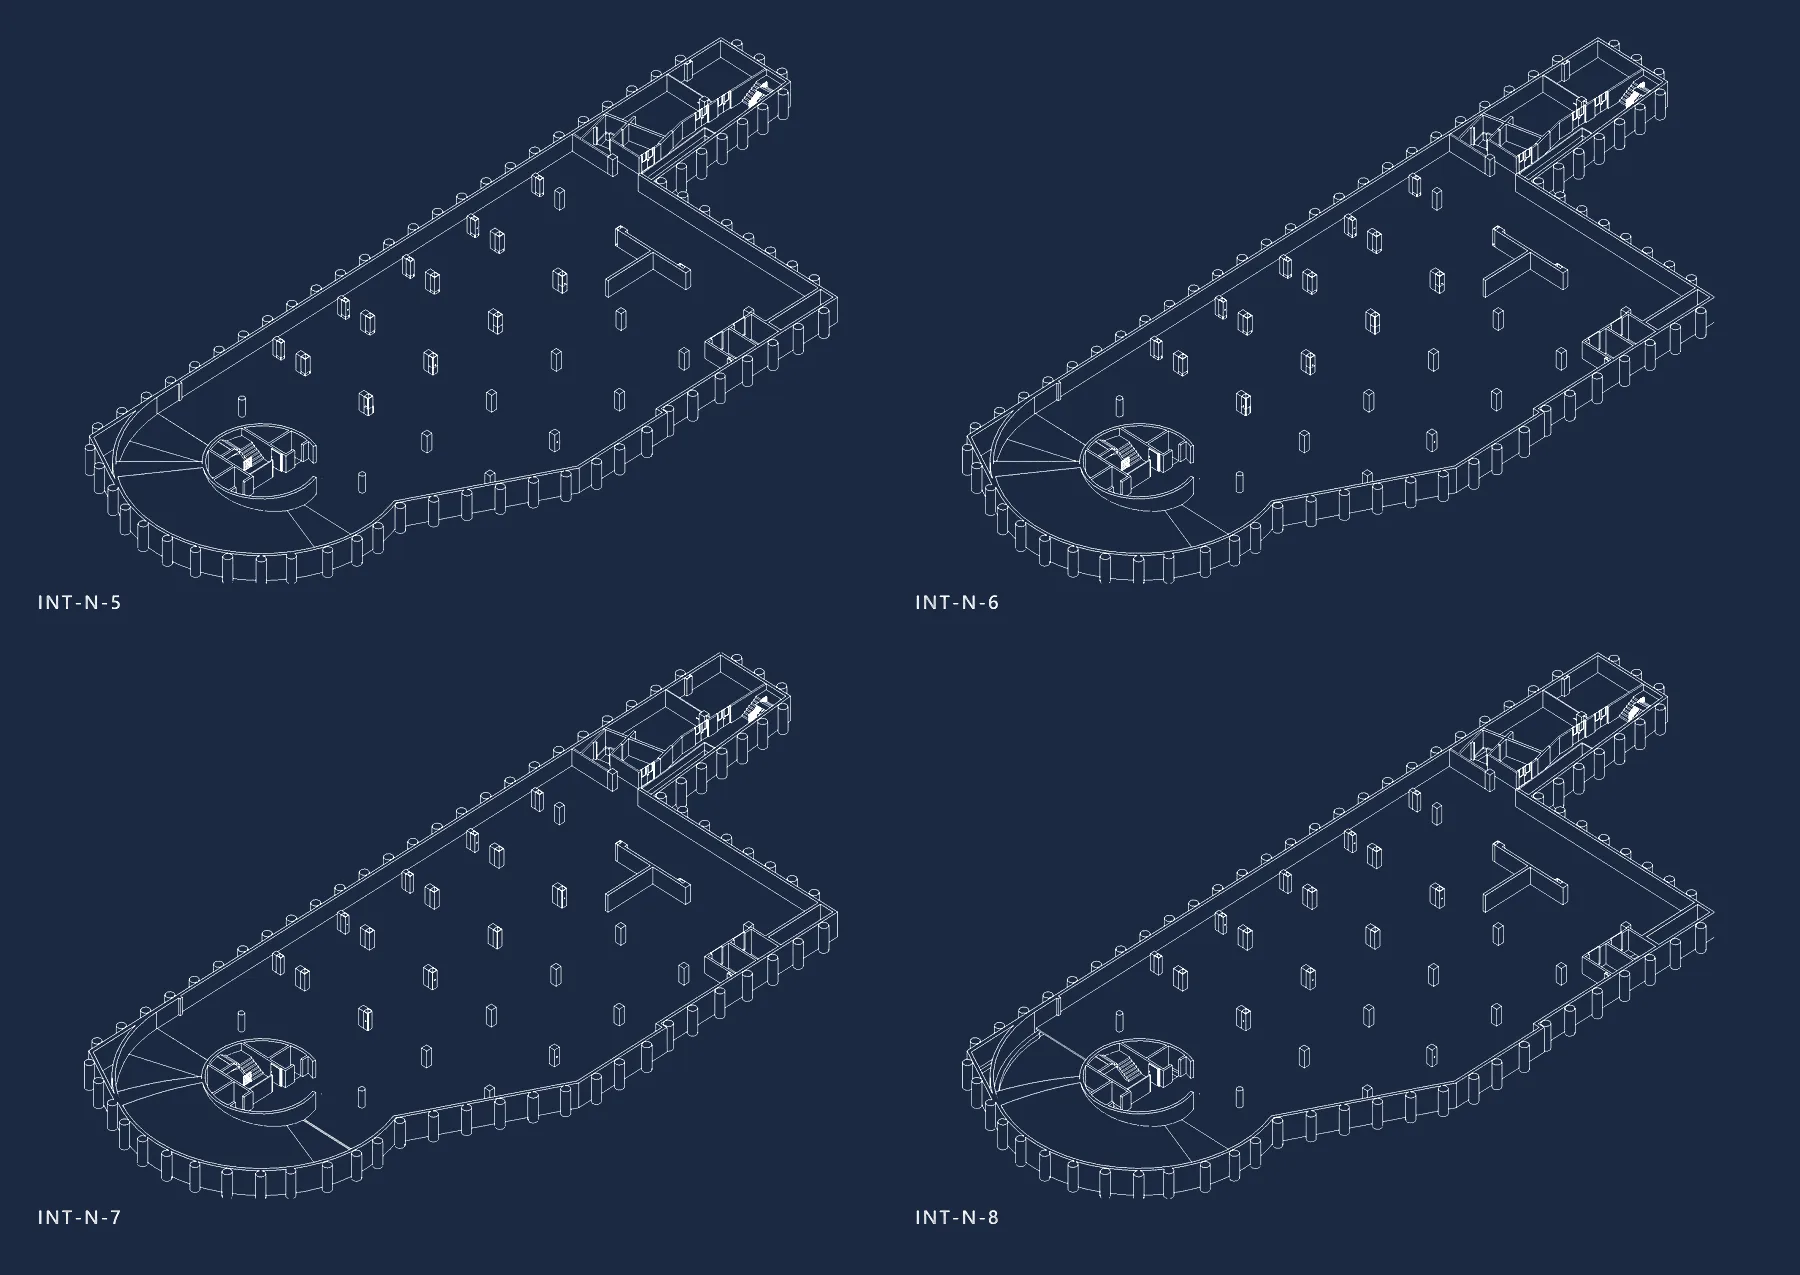
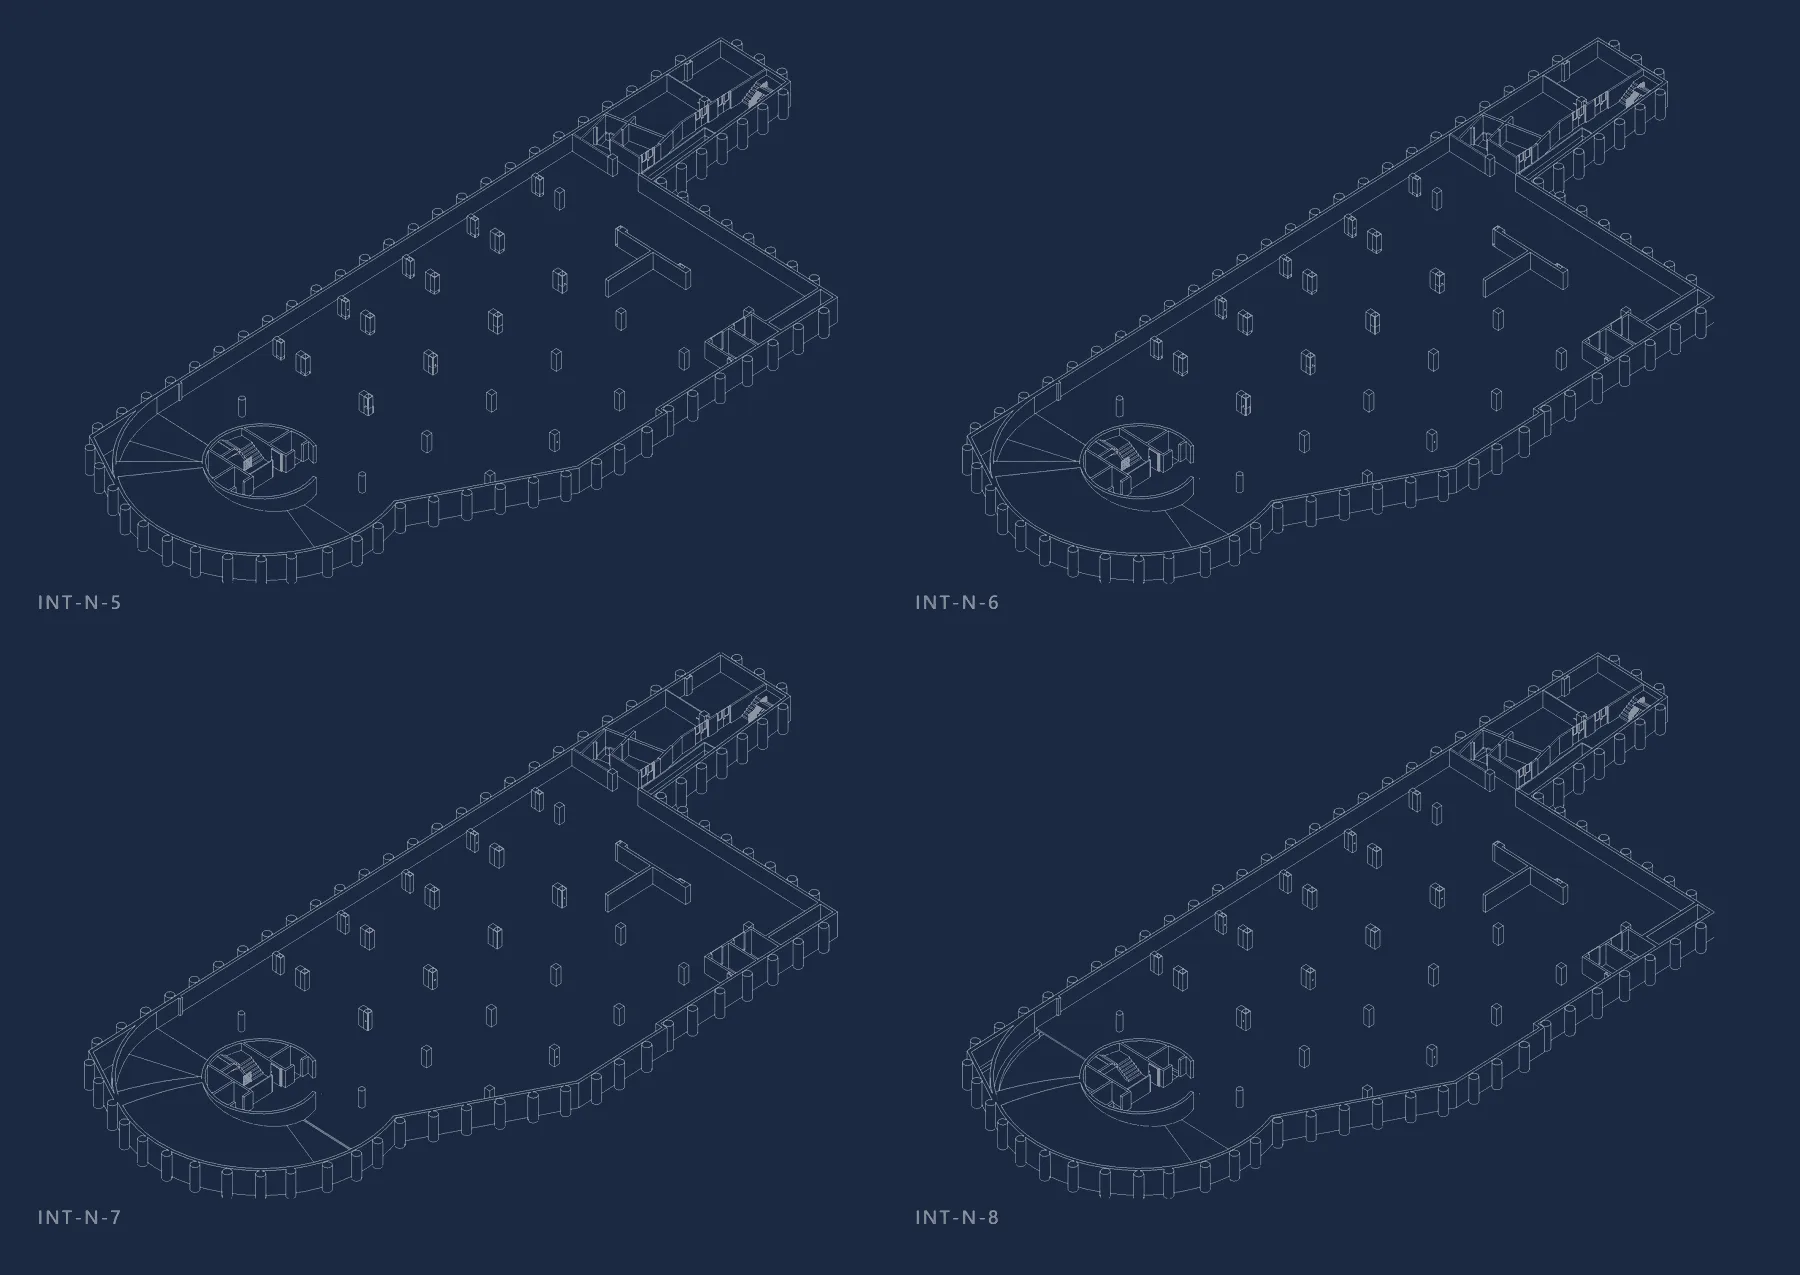
INO4: arquitectura en gris azulado más suave
Nueva opción intensidad en fondo-azul.js (tope del blanco de la línea).
clinica se reprocesa con intensidad 0,5, en el tono de la arquitectura de
SCFA. IMG_V sube a 2026-11-18c para forzar la recarga.

Claude-Session: https://claude.ai/code/session_01Dnq6nJeuR1o8e4q3ZrPM81

diff --git a/tools/brandkit/fondo-azul.js b/tools/brandkit/fondo-azul.js
@@ -8,6 +8,9 @@
 // proyecta sobre el plano horizontal, pasan a fondo azul en vez de verse como una mancha.
 // Usar solo en vistas de arquitectura; en las de especialidad la arquitectura tenue es gris claro.
 //
+// --intensidad=<0..1> (o `{ intensidad }`): tope del blanco de la línea neutra. 1 = blanco pleno;
+// 0,5 deja la arquitectura en un gris azulado similar al que tiene en las vistas de SCFA.
+//
 // También se exporta `aAzul(buffer)` para que laminas.js lo aplique al componer.
 // El CLI omite las imágenes cuya esquina ya no es blanca, para no invertirlas dos veces.
 const fs = require("fs");
@@ -23,7 +26,7 @@ const curva = (v) => Math.pow(Math.min(1, v * 2.2), 0.85);
 // Luminancia desde la que un gris se considera sombra (~217/255; las sombras de INO4 rondan 229)
 const UMBRAL_SOMBRA = 0.85;
 
-async function aAzul(input, { sinSombras = false } = {}) {
+async function aAzul(input, { sinSombras = false, intensidad = 1 } = {}) {
   const { data, info } = await sharp(input).flatten({ background: "#ffffff" })
     .removeAlpha().raw().toBuffer({ resolveWithObject: true });
   const out = Buffer.alloc(data.length);
@@ -36,7 +39,7 @@ async function aAzul(input, { sinSombras = false } = {}) {
 
     // parte neutra: blanco → azul, gris/negro → blanco
     const v = sinSombras ? Math.max(0, (UMBRAL_SOMBRA - lum) / UMBRAL_SOMBRA) : 1 - lum;
-    const t = curva(v);
+    const t = curva(v) * intensidad;
     // peso del color de especialidad: 0 en grises, 1 en colores francos
     const c = Math.min(1, Math.max(0, (croma - 12) / 50));
 
@@ -54,7 +57,9 @@ if (require.main === module) {
   (async () => {
     const args = process.argv.slice(2);
     const sinSombras = args.includes("--sin-sombras");
-    for (const archivo of args.filter((a) => a !== "--sin-sombras")) {
+    const optInt = args.find((a) => a.startsWith("--intensidad="));
+    const intensidad = optInt ? Number(optInt.split("=")[1]) : 1;
+    for (const archivo of args.filter((a) => !a.startsWith("--"))) {
       const { data } = await sharp(archivo).extract({ left: 0, top: 0, width: 1, height: 1 })
         .removeAlpha().raw().toBuffer({ resolveWithObject: true });
       if (data[0] < 240 || data[1] < 240 || data[2] < 240) {
@@ -63,7 +68,7 @@ if (require.main === module) {
       }
       const meta = await sharp(archivo).metadata();
       const calidad = meta.width <= 900 ? 80 : 82;
-      const buf = await (await aAzul(archivo, { sinSombras })).webp({ quality: calidad }).toBuffer();
+      const buf = await (await aAzul(archivo, { sinSombras, intensidad })).webp({ quality: calidad }).toBuffer();
       fs.writeFileSync(archivo, buf);
       console.log(`azul        ${archivo}`);
     }

diff --git a/tools/brandkit/laminas.js b/tools/brandkit/laminas.js
@@ -48,7 +48,7 @@ const etiqueta = (x, y, texto) =>
   // portada: una sola vista, a resolución completa
   if (CFG.portada) {
     const buf = await vista(CFG.portada);
-    const azul = await (await aAzul(buf, { sinSombras: CFG.sinSombras })).png().toBuffer();
+    const azul = await (await aAzul(buf, { sinSombras: CFG.sinSombras, intensidad: CFG.intensidad ?? 1 })).png().toBuffer();
     await sharp(azul).resize({ width: 1800, withoutEnlargement: true }).webp({ quality: 82 })
       .toFile(path.join(OUT_IMG, "portada.webp"));
     console.log(`portada     ${CFG.portada}`);
@@ -78,7 +78,7 @@ const etiqueta = (x, y, texto) =>
 
     const base = `lam-${String(i + 1).padStart(2, "0")}`;
     const hoja = await sharp({ create: { width: W, height: H, channels: 3, background: "#ffffff" } })
-      .composite(capas).png().toBuffer().then(async (b) => (await aAzul(b, { sinSombras: CFG.sinSombras })).png().toBuffer());
+      .composite(capas).png().toBuffer().then(async (b) => (await aAzul(b, { sinSombras: CFG.sinSombras, intensidad: CFG.intensidad ?? 1 })).png().toBuffer());
 
     await sharp(hoja).resize({ width: 1800 }).webp({ quality: 82 }).toFile(path.join(OUT_IMG, `${base}.webp`));
     await sharp(hoja).resize({ width: 900 }).webp({ quality: 80 }).toFile(path.join(OUT_IMG, `${base}-thumb.webp`));

diff --git a/src/data/proyectos.js b/src/data/proyectos.js
@@ -4,7 +4,7 @@ import clinica from "./clinica.json";
 // Versión de las imágenes: se agrega como ?v= a cada ruta para que el navegador y la caché
 // de Cloudflare no sigan mostrando la imagen anterior cuando se regeneran con el mismo nombre.
 // Subir el valor cada vez que se reprocesen las láminas o portadas.
-const IMG_V = "2026-11-18b";
+const IMG_V = "2026-11-18c";
 const v = (ruta) => `${ruta}?v=${IMG_V}`;
 const conVersion = (vistas) => vistas.map((x) => ({ ...x, src: v(x.src), thumb: v(x.thumb) }));
 

diff --git a/CLAUDE.md b/CLAUDE.md
@@ -57,7 +57,9 @@ más `portada.webp`. Al final pasa todo por `fondo-azul.js`: fondo `--primary`, 
 blanco y el color de la especialidad intacto (`node fondo-azul.js <archivo.webp>` lo aplica a
 imágenes ya exportadas; omite las que ya no tienen fondo blanco). Con `"sinSombras": true` en el
 JSON (o `--sin-sombras` en el CLI) las sombras grises del plano horizontal pasan a fondo; se usa en
-`clinica`, no en `scfa`, donde la arquitectura tenue es justamente gris claro. `proyecto-imagenes.js` sigue sirviendo para exportar vistas sueltas, pero
+`clinica`, no en `scfa`, donde la arquitectura tenue es justamente gris claro. `"intensidad": 0.5`
+(o `--intensidad=0.5`) baja la línea de arquitectura de blanco pleno a un gris azulado como el de
+`scfa`; `clinica` lo usa. Tras reprocesar imágenes, subir `IMG_V` en `src/data/proyectos.js`. `proyecto-imagenes.js` sigue sirviendo para exportar vistas sueltas, pero
 el sitio consume las láminas.
 
 ### Logotipos de cliente
